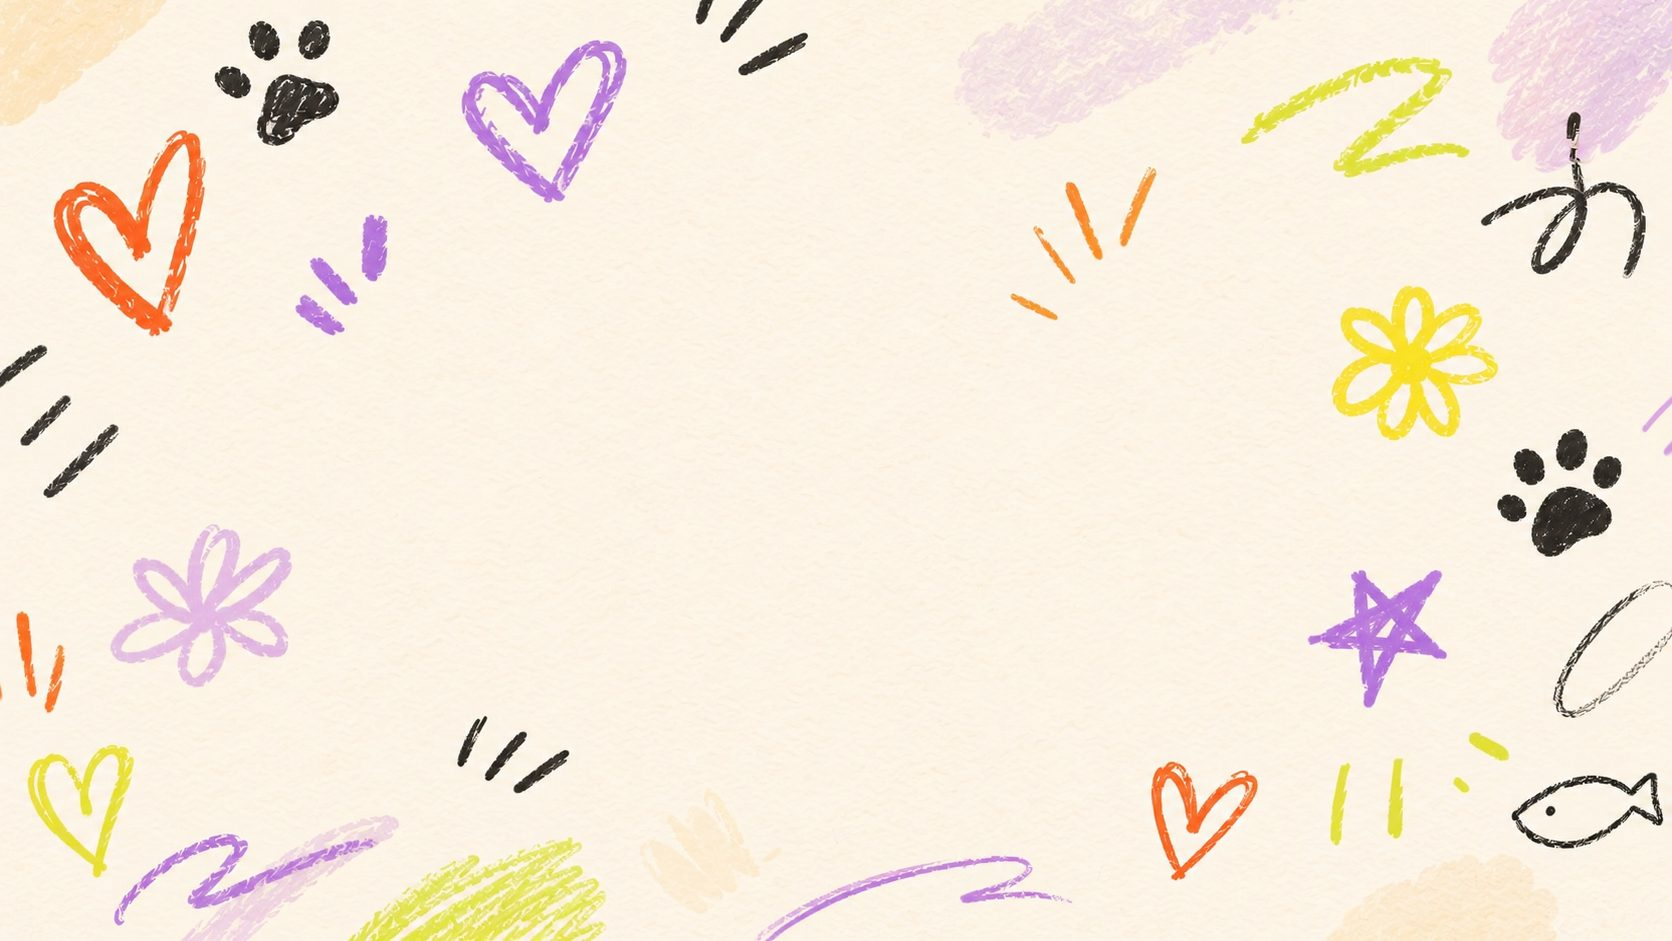
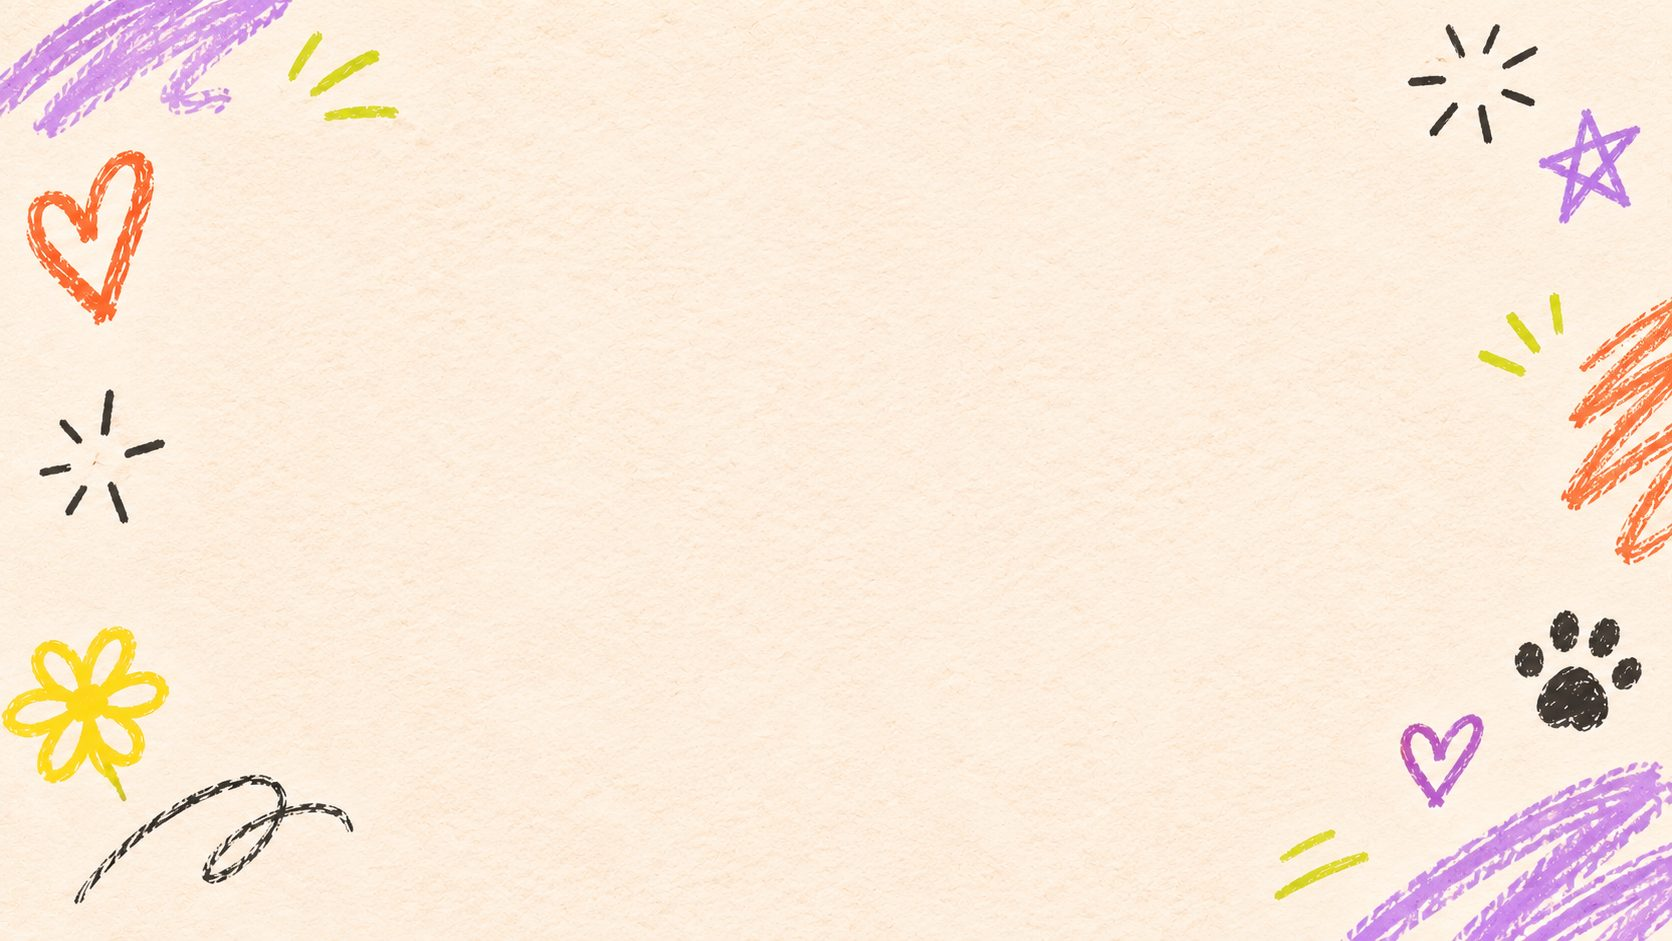
Add files via upload

diff --git a/style.css b/style.css
@@ -32,7 +32,7 @@ body {
 
   /* Ellen's hand-drawn crayon backgrounds */
   background-color: var(--cream);
-  background-image: url("bg-home.jpg");
+  background-image: url("bg-home.jpg?v=3");
   background-size: cover;
   background-position: center;
   background-repeat: no-repeat;
@@ -40,12 +40,12 @@ body {
 
 /* Phones: a version with doodles spread through, so the edges aren't cropped away */
 @media (max-width: 700px) {
-  body { background-image: url("bg-home-mobile.jpg"); }
+  body { background-image: url("bg-home-mobile.jpg?v=3"); }
 }
 
 /* Thank-you page: lilac crayon wash */
 body.thanks {
-  background-image: url("bg-thanks.jpg");
+  background-image: url("bg-thanks.jpg?v=3");
   background-position: center bottom;
 }
 
@@ -284,7 +284,7 @@ h1 {
   font-family: 'Baloo 2', sans-serif !important;
   color: var(--ink) !important;
   text-align: center !important;
-  margin: 6px 0 14px !important;
+  margin: 2px 0 4px !important;
 }
 .formkit-form [data-group="checkboxes"] legend {
   width: 100% !important;
@@ -298,7 +298,8 @@ h1 {
   margin: 0 0 12px !important;
 }
 .formkit-form [data-group="checkbox"] {
-  margin: 0 !important;
+  display: inline-block !important;
+  margin: 4px 3px !important;
 }
 .formkit-form [data-group="checkbox"] label {
   display: inline-block !important;
@@ -351,3 +352,14 @@ h1 {
 
 /* Thank-you page sits on lilac, so the Instagram sticker switches to citron */
 body.thanks .sticker { background: var(--citron); }
+
+/* ---------- Phones: calmer top, form sooner ---------- */
+@media (max-width: 700px) {
+  body { padding: 20px 16px 40px; align-items: flex-start; }
+  .logo { width: min(180px, 50vw); margin-bottom: 0; }
+  .note { font-size: 1.8rem; margin-bottom: 2px; }
+  .tagline { font-size: 1.05rem; margin: 2px auto 18px; }
+  .card { padding: 20px 16px; }
+  .formkit-form [data-group="checkboxes"] legend { font-size: 1.15rem !important; margin-bottom: 8px !important; }
+  .formkit-form [data-group="checkbox"] label { font-size: 0.92rem !important; padding: 5px 12px !important; }
+}

diff --git a/thanks.html b/thanks.html
@@ -9,7 +9,7 @@
   <link rel="preconnect" href="https://fonts.googleapis.com">
   <link rel="preconnect" href="https://fonts.gstatic.com" crossorigin>
   <link href="https://fonts.googleapis.com/css2?family=Baloo+2:wght@500;700;800&family=Reenie+Beanie&family=Nunito:wght@500;600;700;800&display=swap" rel="stylesheet">
-  <link rel="stylesheet" href="style.css">
+  <link rel="stylesheet" href="style.css?v=3">
 </head>
 <body class="thanks">
   <main>

diff --git a/index.html b/index.html
@@ -9,7 +9,7 @@
   <link rel="preconnect" href="https://fonts.googleapis.com">
   <link rel="preconnect" href="https://fonts.gstatic.com" crossorigin>
   <link href="https://fonts.googleapis.com/css2?family=Baloo+2:wght@500;700;800&family=Reenie+Beanie&family=Nunito:wght@500;600;700;800&display=swap" rel="stylesheet">
-  <link rel="stylesheet" href="style.css">
+  <link rel="stylesheet" href="style.css?v=3">
 </head>
 <body>
   <main>
